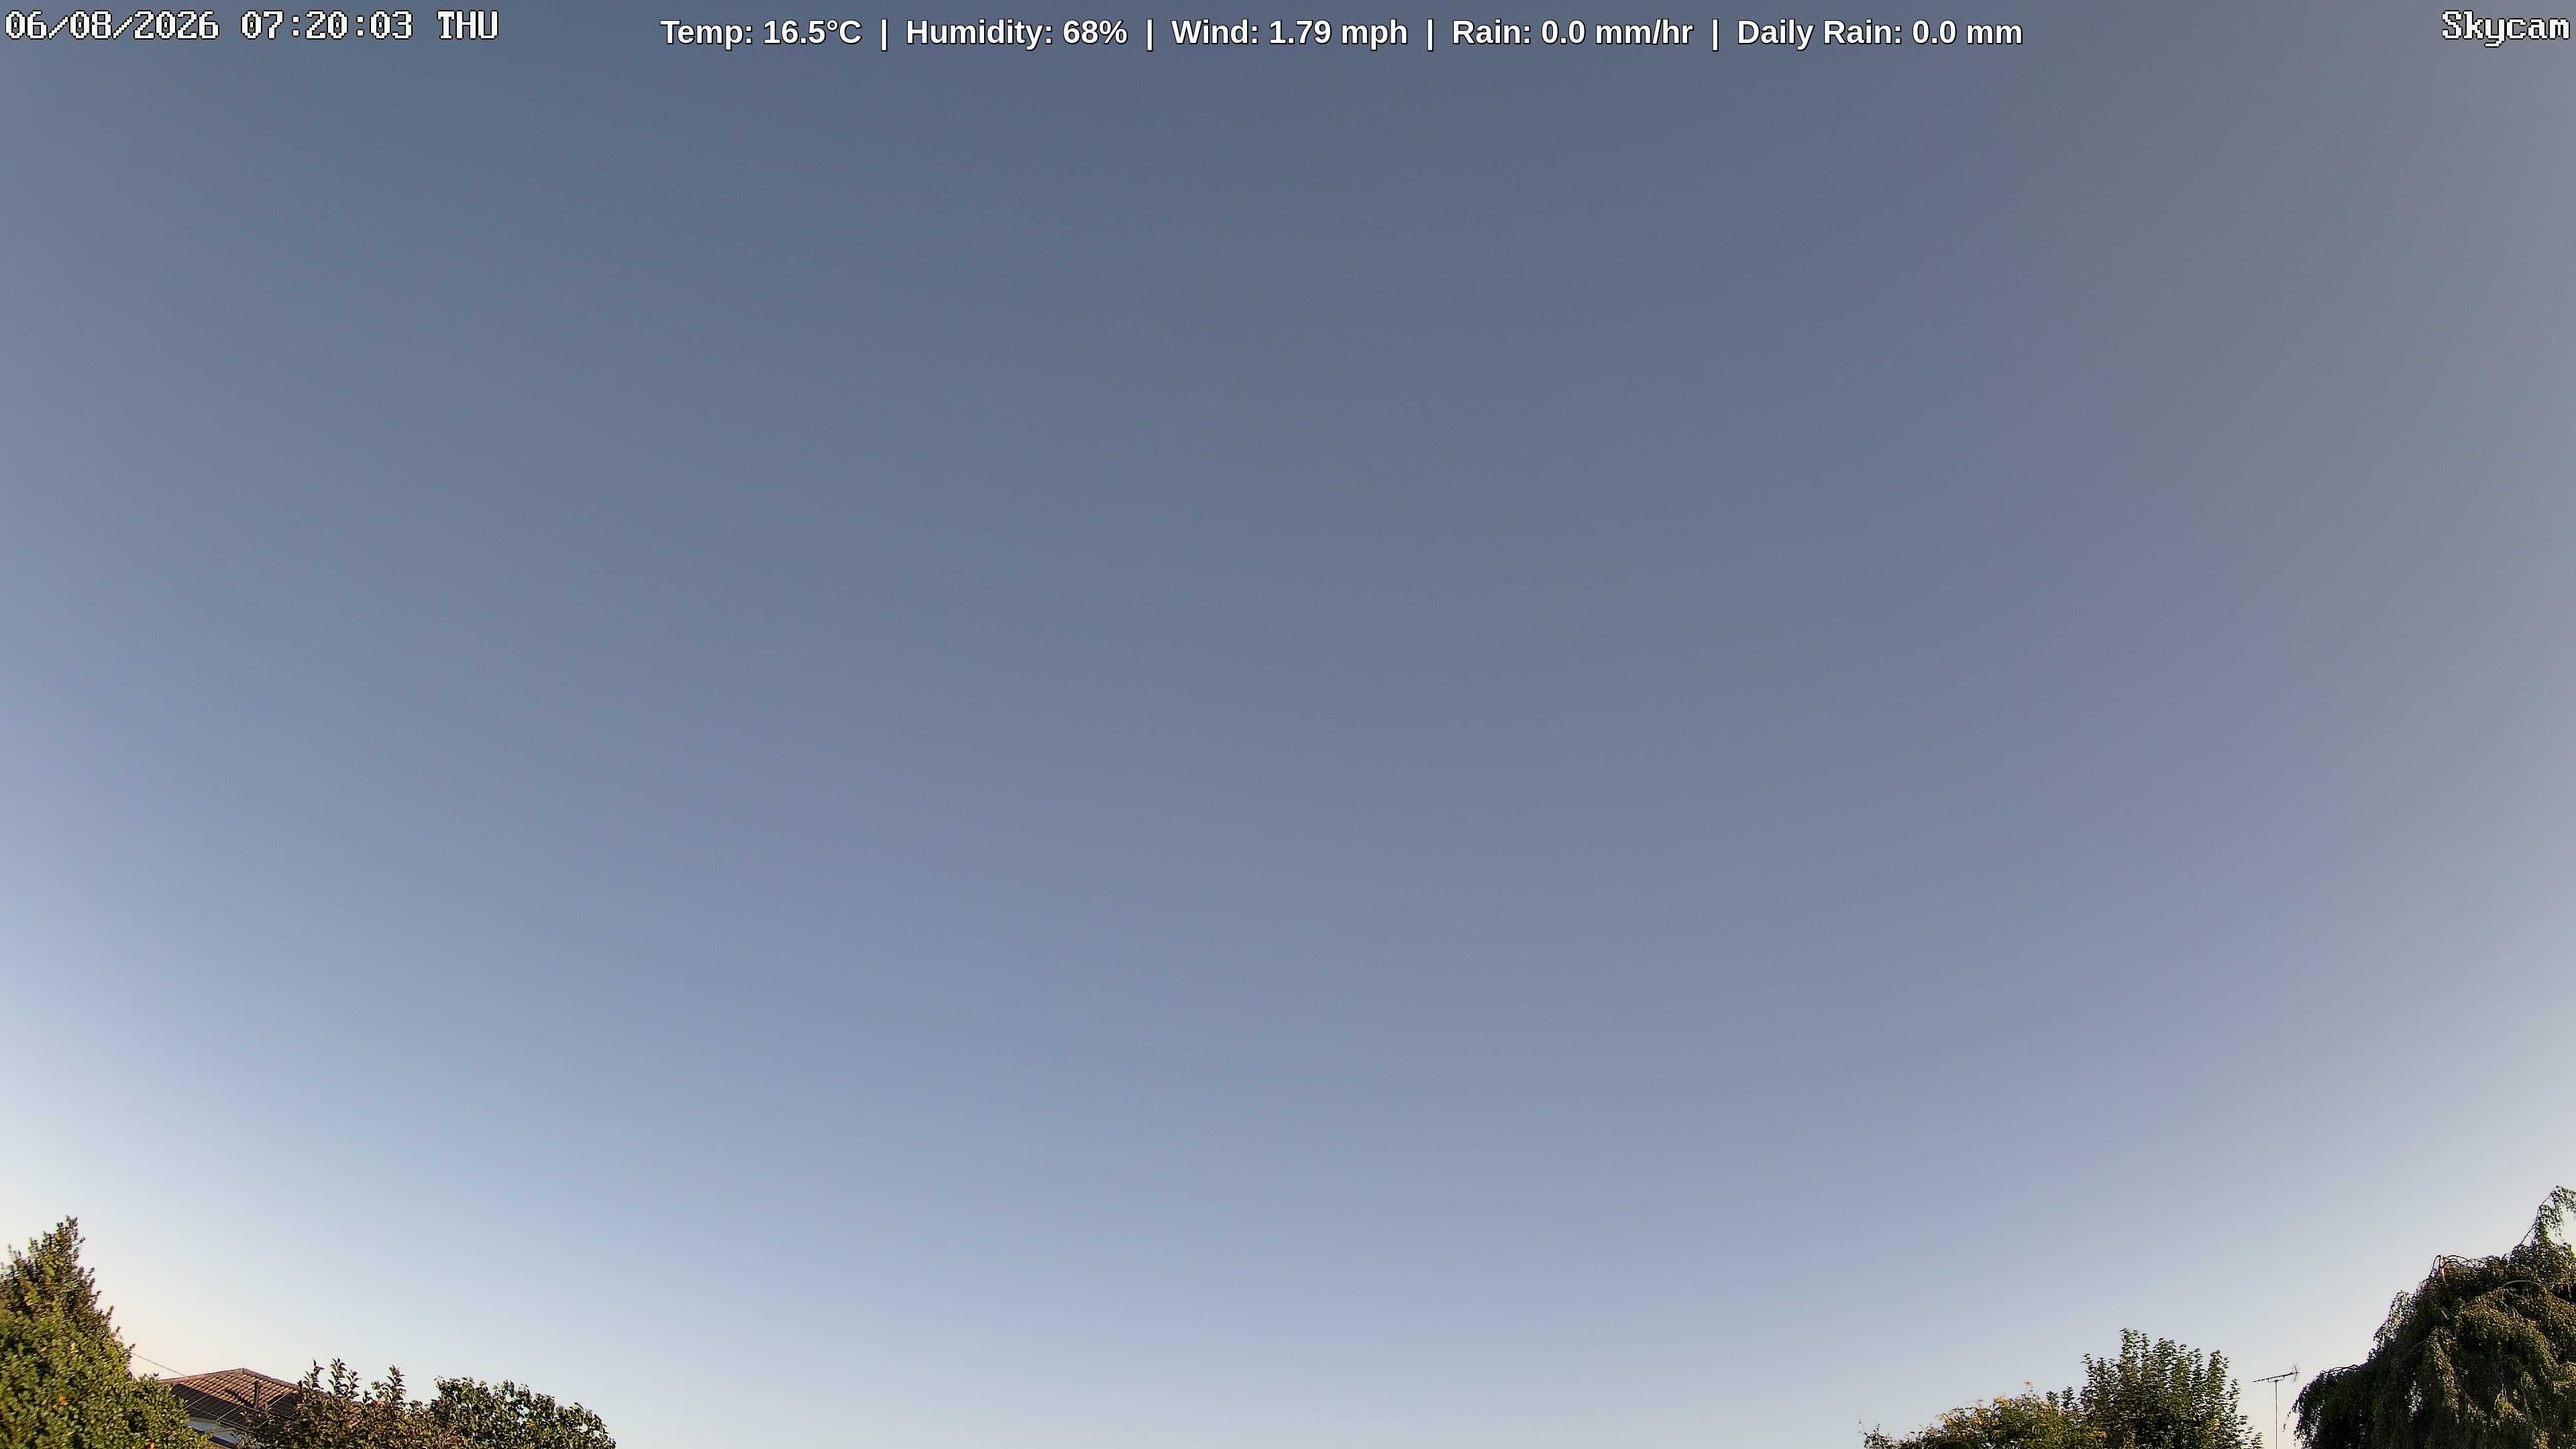
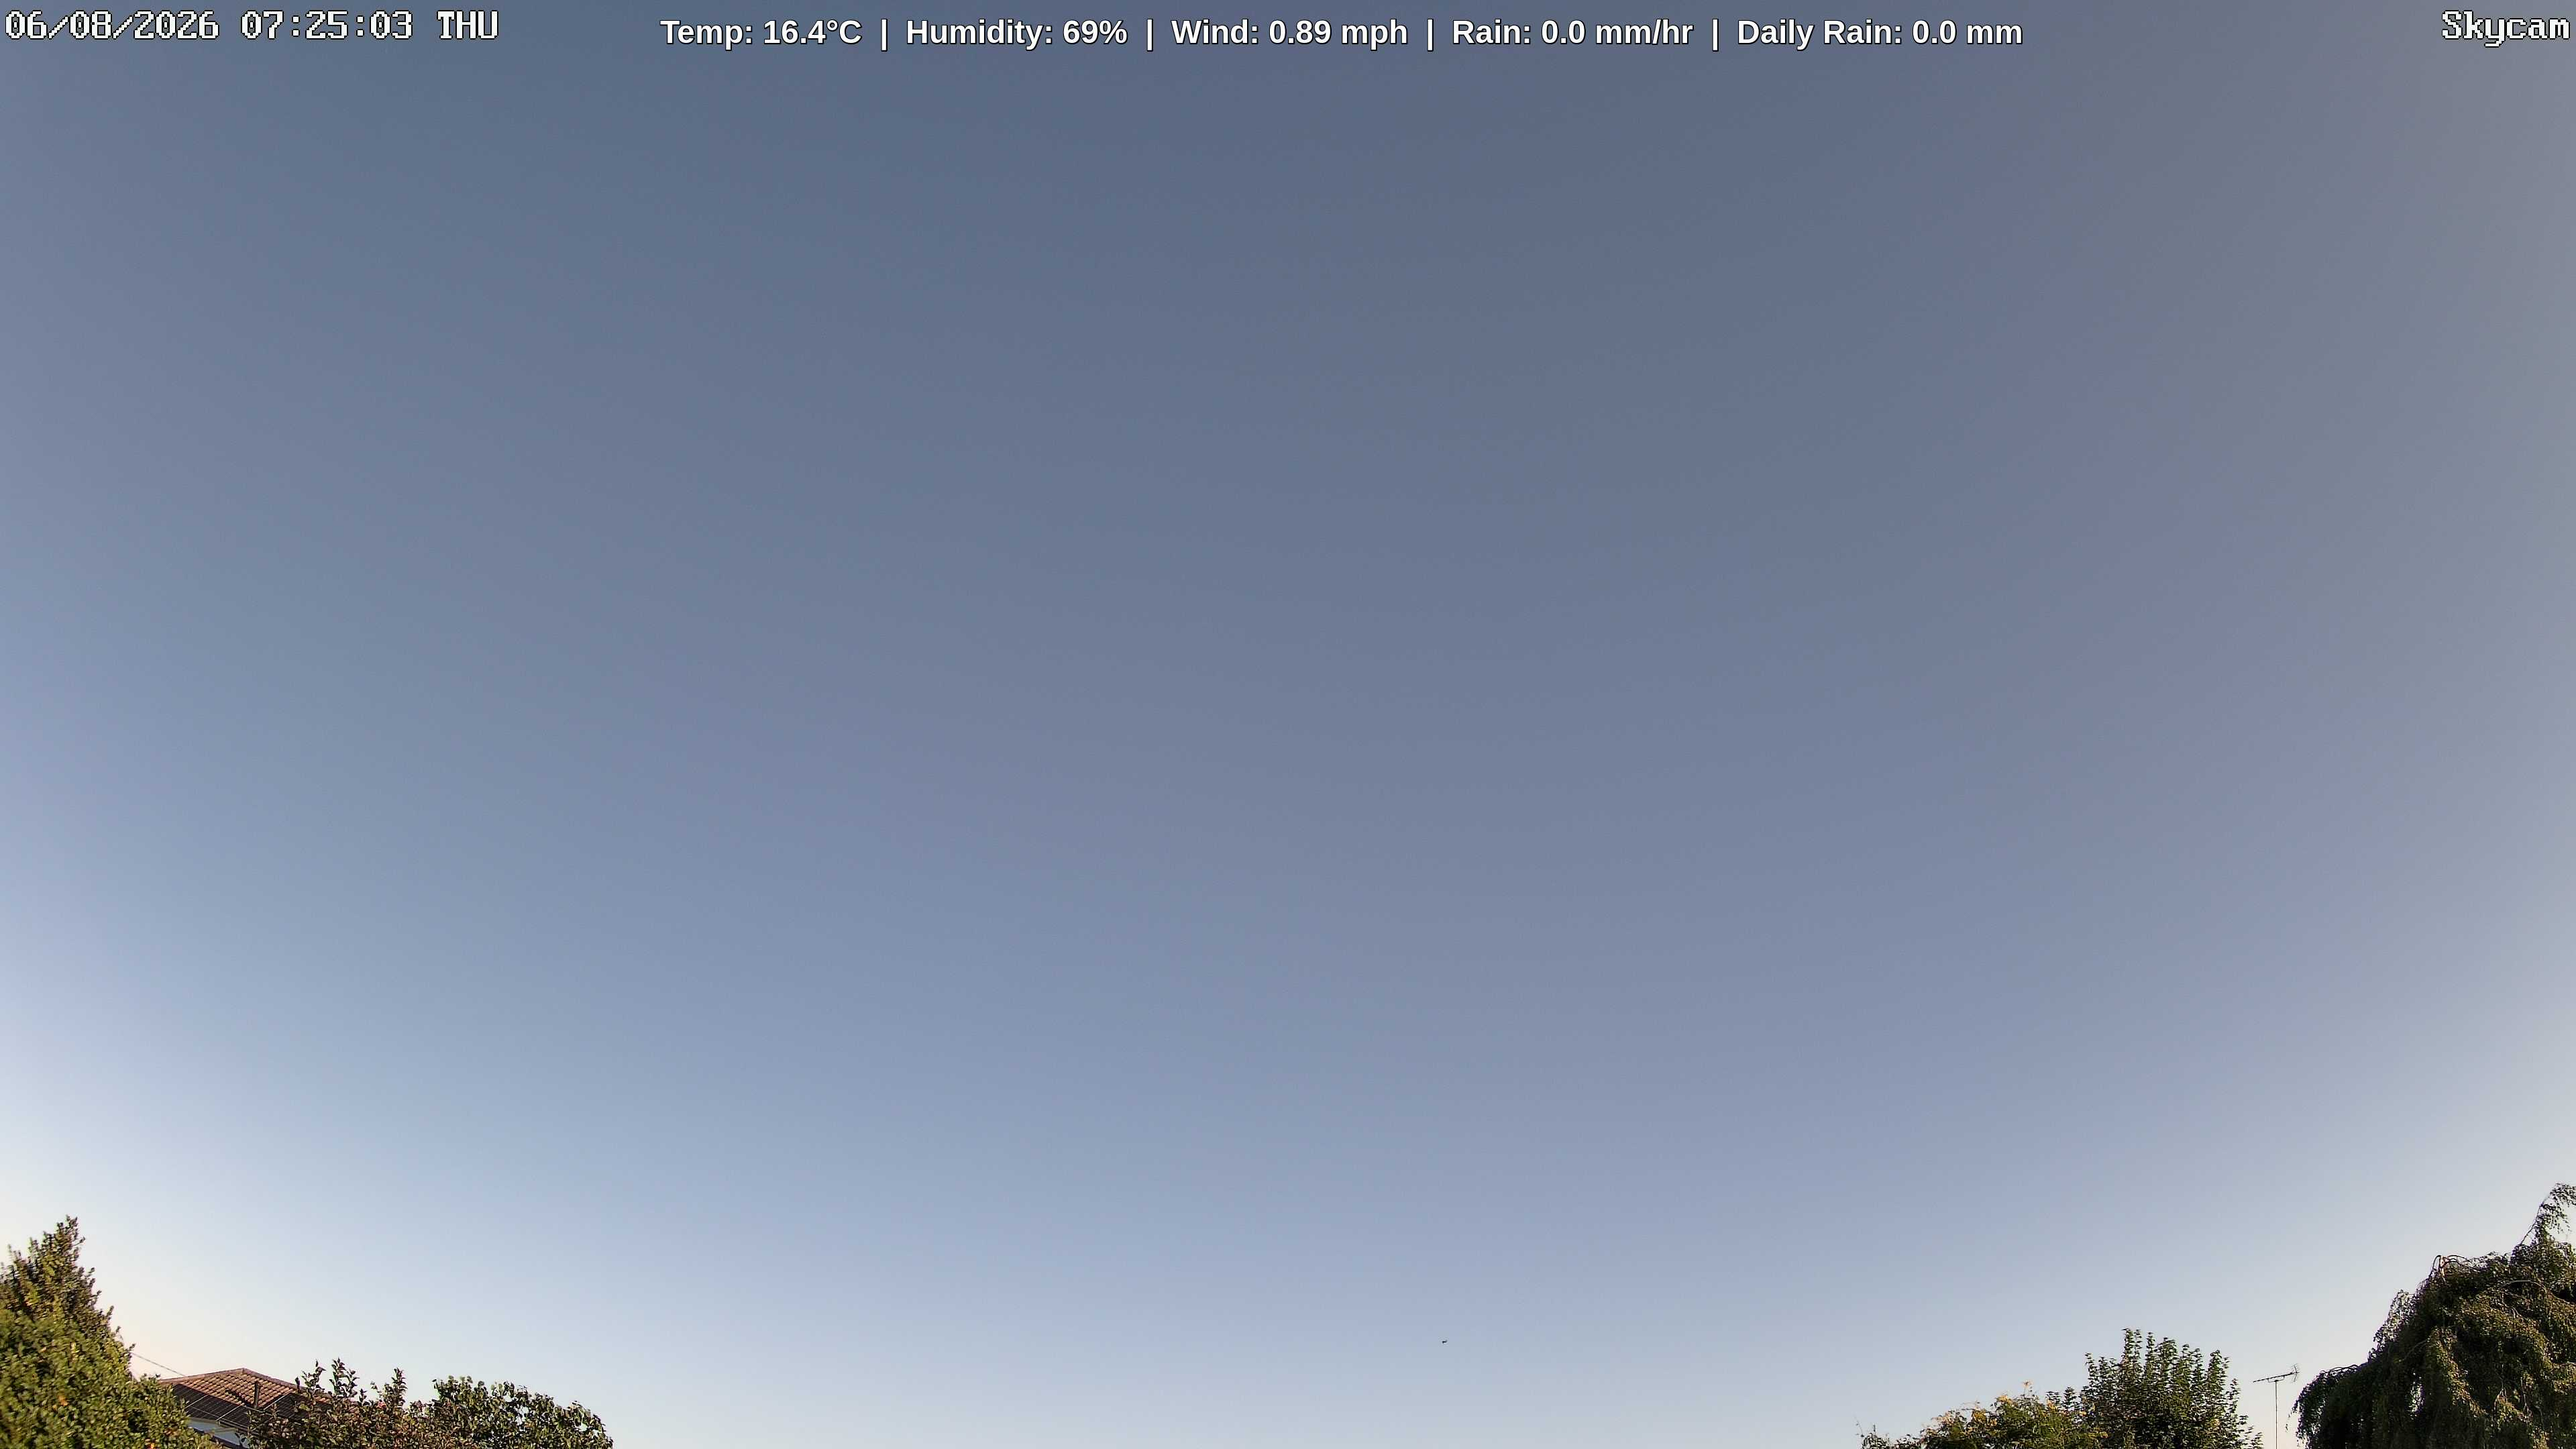
Update weather cam image with synchronized dual-layer weather metrics

diff --git a/index.html b/index.html
@@ -32,7 +32,7 @@
 </head>
 <body>
     <img id="weathercam" alt="Live Weather Snapshot">
-    <div class="banner">Temp: 16.5°C  |  Humidity: 68%  |  Wind: 1.79 mph  |  Rain: 0.0 mm/hr  |  Daily Rain: 0.0 mm</div>
+    <div class="banner">Temp: 16.4°C  |  Humidity: 69%  |  Wind: 0.89 mph  |  Rain: 0.0 mm/hr  |  Daily Rain: 0.0 mm</div>
 
     <script>
         // Shatter mobile cache engines by appending a live unique runtime timestamp 
